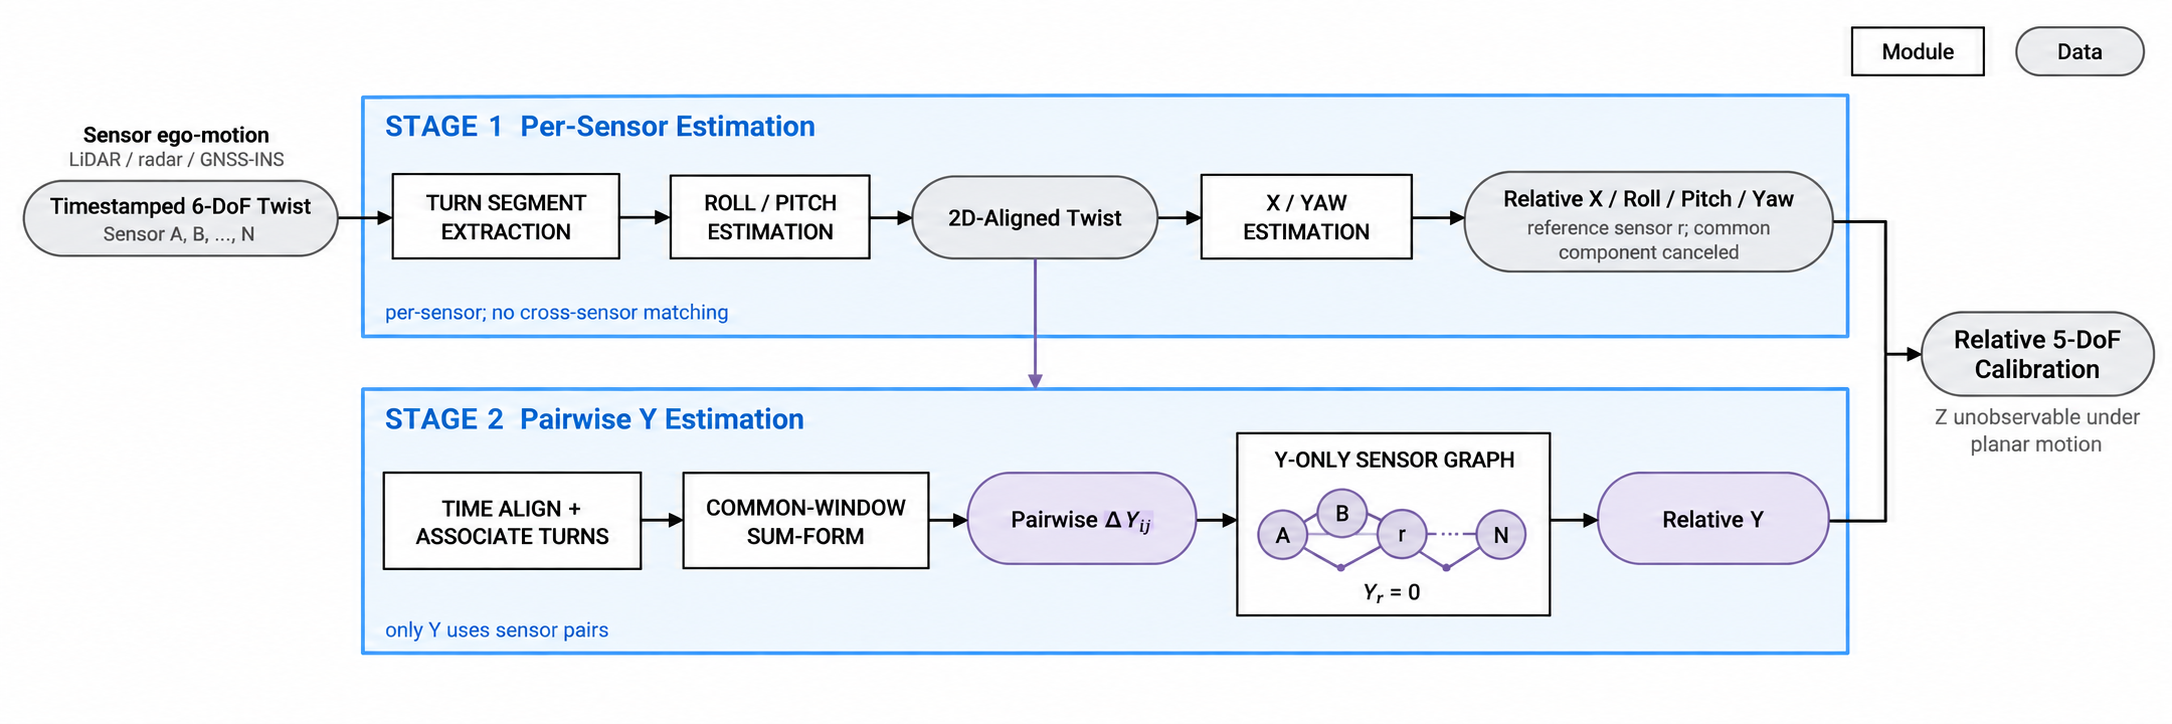
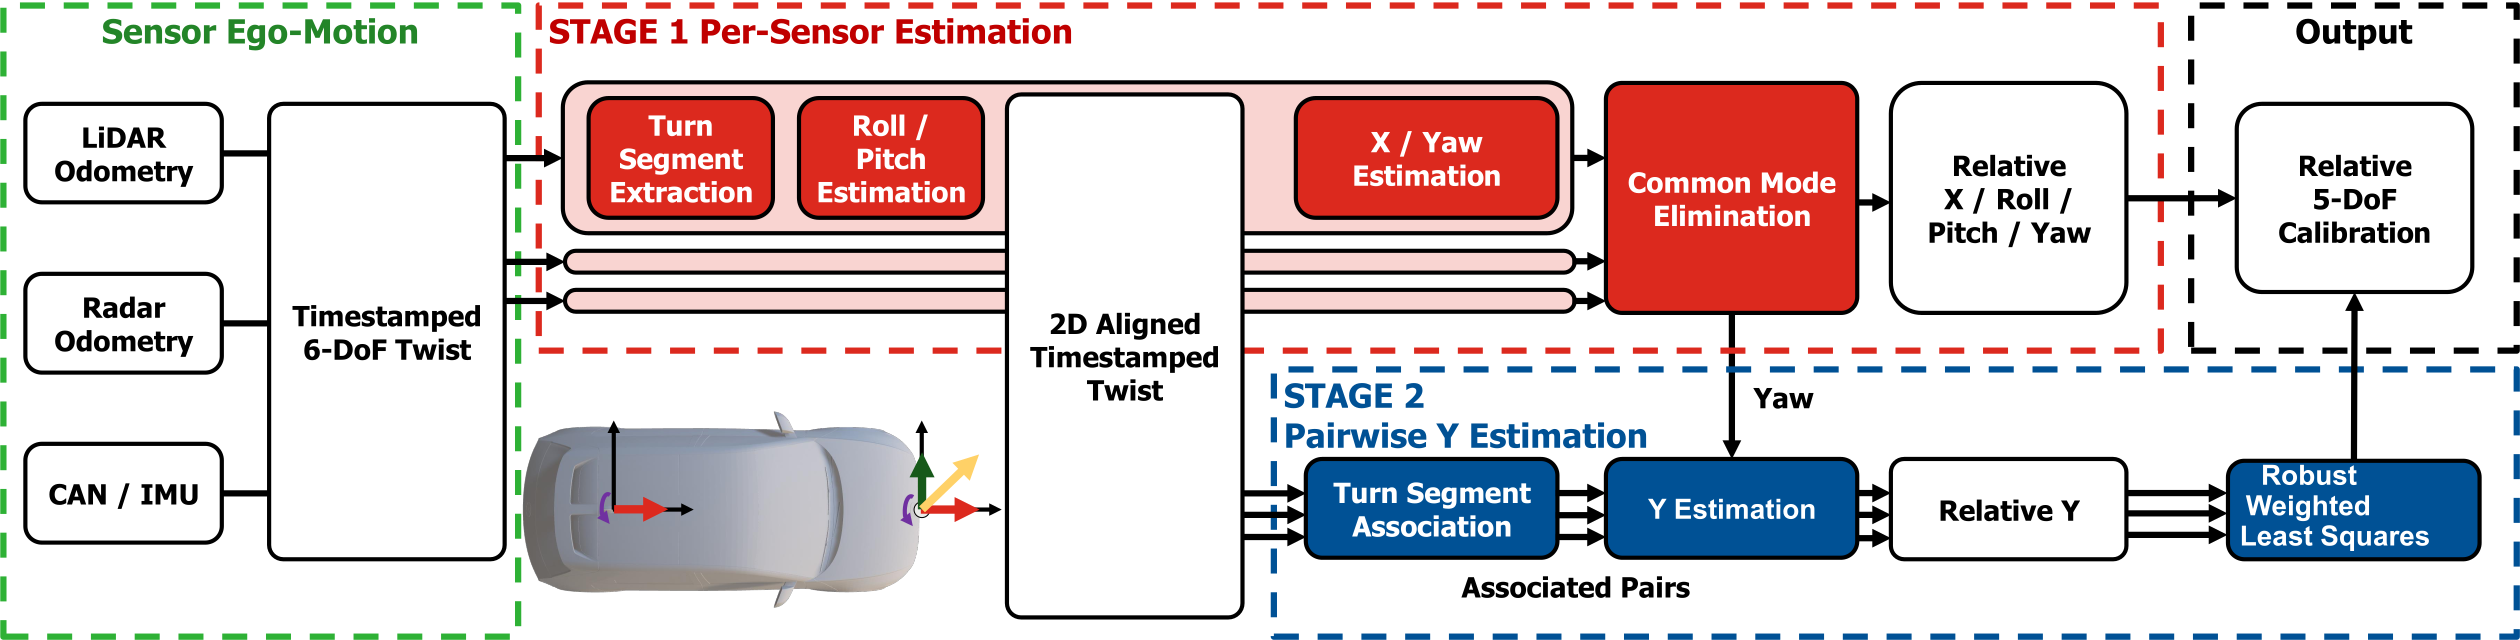
Update project page to current manuscript

diff --git a/index.html b/index.html
@@ -5,8 +5,8 @@
   <meta name="viewport" content="width=device-width, initial-scale=1">
   <meta name="robots" content="noindex, nofollow, noarchive">
   <meta name="author" content="Anonymous">
-  <meta name="description" content="NH-Calib is a target-free method for relative extrinsic calibration of vehicle-mounted sensors from their ego-motion and nonholonomic vehicle constraints.">
-  <title>NH-Calib | Target-Free Multi-Sensor Extrinsic Calibration</title>
+  <meta name="description" content="NH-Calib is a target-free, vehicle-motion-constrained method for relative extrinsic calibration of onboard sensors from ego-motion.">
+  <title>NH-Calib | Vehicle-Motion-Constrained Sensor Calibration</title>
   <link rel="stylesheet" href="styles.css">
 </head>
 <body>
@@ -29,70 +29,67 @@
   <main id="main">
     <section class="hero" id="top">
       <div class="hero-copy">
-        <p class="eyebrow">Anonymous ICRA 2027 submission</p>
-        <h1>Calibrate vehicle sensors<br><span>from motion alone.</span></h1>
-        <p class="paper-title">NH-Calib: Target-Free Multi-Sensor Extrinsic Calibration from Nonholonomic Vehicle Motion</p>
+        <p class="eyebrow">Anonymous research project</p>
+        <h1>Calibrate onboard sensors<br><span>from vehicle motion.</span></h1>
+        <p class="paper-title">NH-Calib: Vehicle-Motion-Constrained Self-Calibration of Onboard Sensor Extrinsics</p>
         <p class="hero-summary">
-          NH-Calib estimates relative 5-DoF extrinsics from independently measured sensor ego-motion,
-          using the vehicle's nonholonomic motion instead of targets, scene overlap, or ground-truth calibration.
+          NH-Calib estimates relative five-degree-of-freedom extrinsics from sensor ego-motion, without calibration
+          targets, direct cross-sensor registration, or ground-truth calibration during estimation.
         </p>
         <div class="cta-row" aria-label="Project resources">
-          <span class="button button-muted" aria-disabled="true">Paper · under review</span>
-          <span class="button button-muted" aria-disabled="true">Code · after review</span>
+          <span class="button button-muted" aria-disabled="true">Paper &mdash; manuscript</span>
+          <span class="button button-muted" aria-disabled="true">Code &mdash; upon publication</span>
           <a class="button button-primary" href="#method">Explore the method</a>
         </div>
-        <p class="submission-note">Authors and affiliations are intentionally withheld for double-anonymous review.</p>
+        <p class="submission-note">Authors and affiliations are withheld while the manuscript remains anonymous.</p>
       </div>
       <div class="hero-visual figure-shell">
-        <img src="assets/fig01_nhc_4plus1plus1_v1.png" alt="Vehicle with two sensors illustrating nonholonomic motion and the observable calibration parameters" fetchpriority="high">
+        <img src="assets/fig01_nhc_4plus1plus1_v1.png" alt="Onboard sensors sharing vehicle motion while observing different parts of the scene" fetchpriority="high">
       </div>
     </section>
 
     <section class="section section-narrow" id="abstract">
       <p class="section-kicker">Abstract</p>
-      <h2>Extrinsic calibration without targets, overlap, or ground-truth calibration.</h2>
+      <h2>Motion-constrained calibration without targets or shared observations.</h2>
       <p class="abstract-copy">
-        Accurate extrinsic parameters are essential for fusing vehicle-mounted sensors in a common frame, yet
-        distributed sensors may lack the shared scene structure required for direct registration. NH-Calib uses
-        locally planar driving and the rear-axle nonholonomic constraint to separate sensor-independent estimation
-        from cross-sensor association. Each sensor's own metric twist determines X, roll, pitch, and yaw; Z remains
-        unobservable under planar motion, while only relative Y is estimated from associated turning segments.
-        For relative Y, a sum-form relation differences longitudinal integrated motion over a common window,
-        cancelling the vehicle-common speed component and reducing sensitivity to frame-level time offsets.
-        We evaluate absolute 4-DoF and relative 5-DoF calibration errors, baselines, and ablations using LiDAR and
-        radar configurations from A2D2, RadarScenes, and Ford Multi-AV. Ground-truth extrinsics are used only for
-        evaluation and never by the estimator.
+        Extrinsic calibration is essential for fusing vehicle-mounted sensors, but direct registration becomes
+        unreliable when their fields of view or sensing modalities differ. NH-Calib exploits locally planar wheeled-
+        vehicle motion and a relaxed lateral-motion model. On the sensor-own-twist path, each sensor independently
+        estimates X, roll, pitch, and yaw; Z remains unobservable under planar motion, and only relative Y requires
+        cross-sensor association. Associated turning segments are time-aligned, integrated over interpolated common
+        boundaries, and combined through a sum-form relation and robust weighted least squares. The method is
+        evaluated with LiDAR and radar configurations from A2D2, RadarScenes, and Ford Multi-AV. Ground-truth
+        extrinsics are used only for scoring.
       </p>
     </section>
 
     <section class="signal-strip" aria-label="Key properties">
       <article>
-        <strong>5-DoF relative calibration</strong>
-        <span>X, Y, roll, pitch, and yaw; Z remains unobservable under planar motion.</span>
+        <strong>Four DoF per sensor</strong>
+        <span>X, roll, pitch, and yaw are estimated from each sensor's own metric twist.</span>
       </article>
       <article>
-        <strong>No cross-sensor registration</strong>
-        <span>Each sensor supplies only its own timestamped metric ego-motion.</span>
+        <strong>Only Y requires association</strong>
+        <span>Relative Y is recovered from paired turns with time alignment and common-window integration.</span>
       </article>
       <article>
-        <strong>LiDAR and radar validated</strong>
-        <span>Evaluated on A2D2, RadarScenes, and Ford Multi-AV.</span>
+        <strong>Cross-modal evaluation</strong>
+        <span>Validated with LiDAR and radar motion on A2D2, RadarScenes, and Ford Multi-AV.</span>
       </article>
     </section>
 
     <section class="section section-narrow" id="overview">
       <p class="section-kicker">Overview</p>
-      <h2>A common vehicle motion is the calibration signal.</h2>
+      <h2>The vehicle's shared motion is the calibration signal.</h2>
       <div class="two-column-copy">
         <p>
-          Multi-sensor systems normally require calibration targets, overlapping fields of view, or direct
-          cross-sensor registration. Those assumptions become fragile when sensors use different modalities,
-          observe different parts of the scene, or are mounted far apart.
+          Registration-based calibration relies on scene overlap, and conventional motion calibration couples all
+          parameters to inter-sensor temporal correspondence. This is restrictive for distributed or heterogeneous
+          onboard sensors.
         </p>
         <p>
-          NH-Calib instead exploits the shared rigid-body motion of sensors mounted on a road vehicle.
-          The nonholonomic constraint separates what can be estimated per sensor from the one translation
-          component that requires pairwise turn association.
+          NH-Calib decomposes the problem by observability. Four parameters are estimated independently per sensor,
+          while the remaining relative lateral translation is estimated only after associating compatible turns.
         </p>
       </div>
     </section>
@@ -101,41 +98,40 @@
       <div class="section-heading">
         <div>
           <p class="section-kicker">Method</p>
-          <h2>Two stages, one reference sensor.</h2>
+          <h2>Two stages with a common ego-motion interface.</h2>
         </div>
         <p>
-          Stage 1 estimates per-sensor quantities and removes their common component by reference-relative
-          differencing. Stage 2 estimates only relative Y from associated turns and consolidates pairwise
-          measurements in a sensor graph.
+          Timestamped metric twists may come from LiDAR or radar odometry, GNSS/INS, or CAN/IMU. RadarScenes uses
+          Doppler velocity with time-aligned CAN yaw rate because radar point-cloud odometry was unreliable.
         </p>
       </div>
 
       <figure class="figure-shell wide-figure">
-        <img src="assets/fig02_two_stage_pipeline_module_data_v6.png" alt="Two-stage NH-Calib pipeline separating processing modules from intermediate data" loading="lazy">
-        <figcaption>Modules are rectangular; intermediate data products are rounded. Cross-sensor association is confined to relative Y.</figcaption>
+        <img src="assets/fig02_two_stage_pipeline_module_data_v6.png" alt="Two-stage NH-Calib pipeline from timestamped sensor ego-motion to relative five-DoF calibration" loading="lazy">
+        <figcaption>Stage 1 estimates per-sensor X, roll, pitch, and yaw; Stage 2 estimates relative Y from associated turns.</figcaption>
       </figure>
 
       <div class="method-grid">
         <article class="method-card">
           <span class="step">01</span>
           <h3>Per-sensor estimation</h3>
-          <p>Extract turns, align roll and pitch, then estimate X and yaw from each sensor's metric twist.</p>
+          <p>Extract turns, align the motion plane, estimate X and yaw from the 2D-aligned twist, then remove the reference-common component.</p>
         </article>
         <article class="method-card">
           <span class="step">02</span>
-          <h3>Reference-relative output</h3>
-          <p>Subtract the chosen reference sensor so vehicle-common components cancel without requiring vehicle-frame ground truth.</p>
+          <h3>Pairwise Y estimation</h3>
+          <p>Associate turns, estimate timing offsets, interpolate common boundaries, and recover pairwise Y with sum-form integration.</p>
         </article>
         <article class="method-card">
           <span class="step">03</span>
-          <h3>Pairwise Y graph</h3>
-          <p>Associate turns, use a common time window, estimate pairwise Y with sum-form integration, and solve a Y-only graph.</p>
+          <h3>Robust integration</h3>
+          <p>Fuse pairwise relative-Y measurements with robust weighted least squares and output reference-relative five-DoF calibration.</p>
         </article>
       </div>
 
       <figure class="figure-shell wide-figure">
-        <img src="assets/fig03_relative_y_sumform_v1.png" alt="Relative Y estimation from paired turns, common-window integration, and robust slope fitting" loading="lazy">
-        <figcaption>The sum-form relation turns common-window integrated motion into a robust slope estimate of relative lateral translation.</figcaption>
+        <img src="assets/fig03_relative_y_sumform_v1.png" alt="Relative Y estimation from path-length differences and time-aligned common turning windows" loading="lazy">
+        <figcaption>Common-window integration converts paired turns into relative-Y measurements while limiting frame-level timing exposure.</figcaption>
       </figure>
     </section>
 
@@ -143,62 +139,72 @@
       <div class="section-heading">
         <div>
           <p class="section-kicker">Experiments</p>
-          <h2>Cross-modal validation without GT in estimation.</h2>
+          <h2>LiDAR and radar calibration without GT during estimation.</h2>
         </div>
         <p>
-          Ground-truth extrinsics are used only for final evaluation. Reported errors are mean absolute errors
-          over valid directed sensor pairs; lower is better.
+          Errors are mean absolute errors over valid ordered sensor pairs. Values below are graph-integrated results;
+          lower is better.
         </p>
       </div>
 
-      <div class="metric-grid" aria-label="Headline relative Y accuracy">
+      <div class="metric-grid" aria-label="Relative Y accuracy">
         <article class="metric-card metric-primary">
-          <span class="metric-dataset">A2D2 · LiDAR</span>
-          <strong>2.86 <small>mm</small></strong>
-          <span>relative Y MAE · 20 directed pairs</span>
+          <span class="metric-dataset">A2D2 &middot; LiDAR</span>
+          <strong>2.85 <small>mm</small></strong>
+          <span>relative Y MAE &middot; 20 ordered pairs</span>
         </article>
         <article class="metric-card">
-          <span class="metric-dataset">RadarScenes · radar</span>
-          <strong>16.57 <small>mm</small></strong>
-          <span>relative Y MAE · 12 directed pairs</span>
+          <span class="metric-dataset">RadarScenes &middot; radar</span>
+          <strong>16.71 <small>mm</small></strong>
+          <span>relative Y MAE &middot; 12 ordered pairs</span>
         </article>
         <article class="metric-card">
-          <span class="metric-dataset">Ford Log4 · LiDAR</span>
-          <strong>32.91 <small>mm</small></strong>
-          <span>relative Y MAE · 12 directed pairs</span>
+          <span class="metric-dataset">Ford Log4 &middot; LiDAR</span>
+          <strong>31.29 <small>mm</small></strong>
+          <span>relative Y MAE &middot; 5 common windows</span>
+        </article>
+        <article class="metric-card">
+          <span class="metric-dataset">Ford Log5 &middot; LiDAR</span>
+          <strong>24.75 <small>mm</small></strong>
+          <span>relative Y MAE &middot; 14 common windows</span>
+        </article>
+        <article class="metric-card">
+          <span class="metric-dataset">Ford Log6 &middot; LiDAR</span>
+          <strong>7.28 <small>mm</small></strong>
+          <span>relative Y MAE &middot; 8 common windows</span>
         </article>
       </div>
 
-      <div class="table-wrap" role="region" aria-label="Calibration accuracy table" tabindex="0">
+      <div class="table-wrap" role="region" aria-label="Relative calibration accuracy table" tabindex="0">
         <table>
-          <caption>NH-Calib relative calibration MAE. Translation is in millimetres and rotation is in degrees.</caption>
+          <caption>NH-Calib relative five-DoF MAE. Translation is in millimetres and rotation is in degrees.</caption>
           <thead>
             <tr>
               <th scope="col">Dataset</th>
               <th scope="col">Pairs</th>
-              <th scope="col">X ↓</th>
-              <th scope="col">Y ↓</th>
-              <th scope="col">Yaw ↓</th>
-              <th scope="col">Roll ↓</th>
-              <th scope="col">Pitch ↓</th>
+              <th scope="col">X &darr;</th>
+              <th scope="col">Y &darr;</th>
+              <th scope="col">Yaw &darr;</th>
+              <th scope="col">Roll &darr;</th>
+              <th scope="col">Pitch &darr;</th>
             </tr>
           </thead>
           <tbody>
-            <tr><th scope="row">A2D2</th><td>20</td><td>10.90 mm</td><td>2.86 mm</td><td>0.098°</td><td>0.191°</td><td>0.112°</td></tr>
-            <tr><th scope="row">RadarScenes</th><td>12</td><td>11.06 mm</td><td>16.57 mm</td><td>0.116°</td><td>—</td><td>—</td></tr>
-            <tr><th scope="row">Ford Log4</th><td>12</td><td>45.37 mm</td><td>32.91 mm</td><td>0.203°</td><td>0.479°</td><td>2.075°</td></tr>
+            <tr><th scope="row">A2D2</th><td>20</td><td>10.90 mm</td><td>2.85 mm</td><td>0.098&deg;</td><td>0.191&deg;</td><td>0.112&deg;</td></tr>
+            <tr><th scope="row">RadarScenes</th><td>12</td><td>5.69 mm</td><td>16.71 mm</td><td>0.115&deg;</td><td>&mdash;</td><td>&mdash;</td></tr>
+            <tr><th scope="row">Ford Log4</th><td>12</td><td>45.37 mm</td><td>31.29 mm</td><td>0.203&deg;</td><td>0.479&deg;</td><td>2.075&deg;</td></tr>
           </tbody>
         </table>
       </div>
 
       <figure class="figure-shell wide-figure">
-        <img src="assets/fig05_bev_triptych_v1.png" alt="Bird's-eye-view comparison of estimated and ground-truth relative sensor layouts for three datasets" loading="lazy">
-        <figcaption>Estimated relative sensor layouts are anchored to one ground-truth reference sensor for visualization only; position errors are shown at true scale.</figcaption>
+        <img src="assets/fig05_bev_triptych_v1.png" alt="Bird's-eye-view comparison of estimated and ground-truth relative sensor layouts" loading="lazy">
+        <figcaption>Relative layouts are anchored to one reference sensor for scoring and visualization; ground truth is never used by the estimator.</figcaption>
       </figure>
 
       <figure class="figure-shell wide-figure">
-        <img src="assets/fig06_sync_dependency_v1.png" alt="Time synchronization dependency by degree of freedom and relative Y sensitivity to injected timing offset" loading="lazy">
-        <figcaption>NH-Calib confines inter-sensor timing dependence to relative Y; the remaining four degrees of freedom are estimated independently per sensor.</figcaption>
+        <img src="assets/fig06_sync_dependency_v1.png" alt="Relative Y sensitivity to an injected inter-sensor timing offset" loading="lazy">
+        <figcaption>Inter-sensor timing dependence is confined to relative Y on the sensor-own-twist path; sum-form integration reduces frame-level sensitivity.</figcaption>
       </figure>
     </section>
 
@@ -208,13 +214,13 @@
           <p class="section-kicker">Resources</p>
           <h2>Reproducibility package.</h2>
         </div>
-        <p>Identity-bearing links remain disabled during review and will be activated after the anonymity period.</p>
+        <p>Paper, code, and processed evaluation assets will be released through this project site.</p>
       </div>
       <div class="resource-grid">
-        <article><span>PDF</span><h3>Paper</h3><p>Anonymous manuscript with the method, observability analysis, and evaluation protocol.</p><span class="status">Under review</span></article>
-        <article><span>Git</span><h3>Code</h3><p>Calibration pipeline, dataset adapters, evaluation scripts, and configuration files.</p><span class="status">After review</span></article>
-        <article><span>Data</span><h3>Processed data</h3><p>Reproducible motion inputs and intermediate outputs permitted by dataset licenses.</p><span class="status">After review</span></article>
-        <article><span>Video</span><h3>Supplementary video</h3><p>Method overview and qualitative calibration results without identity-bearing narration.</p><span class="status">After review</span></article>
+        <article><span>PDF</span><h3>Paper</h3><p>Anonymous manuscript containing the method, analysis, experiments, and ablations.</p><span class="status">In preparation</span></article>
+        <article><span>Git</span><h3>Code</h3><p>Calibration pipeline, dataset adapters, evaluation scripts, and configurations.</p><span class="status">Upon publication</span></article>
+        <article><span>Data</span><h3>Processed data</h3><p>Motion inputs and intermediate outputs permitted by the source dataset licenses.</p><span class="status">Upon publication</span></article>
+        <article><span>Docs</span><h3>Documentation</h3><p>Usage instructions, data conventions, and reproduction recipes.</p><span class="status">Upon publication</span></article>
       </div>
 
       <div class="bibtex-block">
@@ -222,21 +228,21 @@
           <p class="section-kicker">Citation</p>
           <h3>BibTeX</h3>
         </div>
-        <pre><code>@inproceedings{nhcalib2027,
-  title     = {NH-Calib: Target-Free Multi-Sensor Extrinsic Calibration
-               from Nonholonomic Vehicle Motion},
-  author    = {Anonymous},
-  booktitle = {Under review},
-  year      = {2027}
+        <pre><code>@misc{nhcalib2027,
+  title  = {NH-Calib: Vehicle-Motion-Constrained Self-Calibration
+            of Onboard Sensor Extrinsics},
+  author = {Anonymous},
+  year   = {2027},
+  note   = {Manuscript in preparation}
 }</code></pre>
-        <p class="draft-warning">Anonymous review citation. Authors, affiliations, and archival URLs will be added only after acceptance.</p>
+        <p class="draft-warning">The archival citation and author information will be added upon publication.</p>
       </div>
     </section>
   </main>
 
   <footer>
-    <span>NH-Calib · anonymous project page</span>
-    <span>Last content sync: 15 September 2026</span>
+    <span>NH-Calib &middot; anonymous project page</span>
+    <span>Last content sync: 16 September 2026</span>
   </footer>
 </body>
 </html>

diff --git a/README.md b/README.md
@@ -1,37 +1,35 @@
 # NH-Calib project page
 
-Static, dependency-free project page for the anonymous NH-Calib ICRA 2027 submission.
+Static, dependency-free project page for the anonymous NH-Calib manuscript:
 
-## Anonymous publication target
+> **NH-Calib: Vehicle-Motion-Constrained Self-Calibration of Onboard Sensor Extrinsics**
 
-- Candidate account: `nh-calib-project` (available when checked on 15 September 2026).
-- Candidate URL: `https://nh-calib-project.github.io/`.
-- Create the GitHub account with a new neutral email address that is not associated with any author, lab, institution, ORCID, or existing GitHub account.
-- Do not fork from, transfer from, star with, or add as a collaborator any identity-bearing account during review.
-- Use only neutral commit metadata such as `Anonymous Researcher <anonymous@users.noreply.github.com>`.
-- Keep analytics, external fonts, author links, lab logos, and identity-bearing media metadata out of the review deployment.
+Published at <https://nh-calib.github.io/>.
+
+## Current content
+
+- Latest anonymous title, abstract, and vehicle-motion-constrained framing.
+- Two-stage method overview with the current user-authored Figs. 1--3.
+- Graph-integrated relative calibration results for A2D2, RadarScenes, and Ford Multi-AV Logs 4--6.
+- Anonymous resource placeholders for the paper, code, processed data, and documentation.
 
 ## Local preview
 
-From this directory, run a local HTTP server:
+From this directory, run:
 
 ```powershell
 & 'C:\Program Files\Python312\python.exe' -m http.server 8080
 ```
 
-Then open `http://localhost:8080/` on win_lab.
+Then open <http://localhost:8080/> on `win_lab`.
 
-## Review-period publication checklist
+## Publication policy
 
-- Keep `Anonymous`, `Under review`, and the frozen English paper title unchanged during review.
-- Keep paper, code, data, and video identity-bearing URLs disabled until the anonymity period ends.
-- Confirm every metric against the camera-ready manuscript.
-- Replace draft raster figures if final vector exports become available.
-- Add an Open Graph preview image only after verifying that its metadata is anonymous.
-- Test keyboard navigation, mobile layout, and external links.
+- Keep author names, affiliations, lab logos, and identity-bearing metadata out while anonymous review is required.
+- Release code and processed assets through this project site upon publication.
+- Confirm every reported metric against the canonical manuscript before deployment.
+- Keep the site dependency-free and free of analytics during anonymous review.
 
-## GitHub Pages deployment
+## Deployment
 
-Publish this folder as the root of the dedicated `nh-calib-project.github.io` repository owned by the anonymous `nh-calib-project` account. No build step is required.
-
-The review deployment is intentionally non-indexed and contains no analytics. Replace anonymous metadata and activate archival links only after acceptance.
+The repository remote is `https://github.com/nh-calib/nh-calib.github.io.git`. GitHub Pages serves the `main` branch from the repository root; no build step is required.
